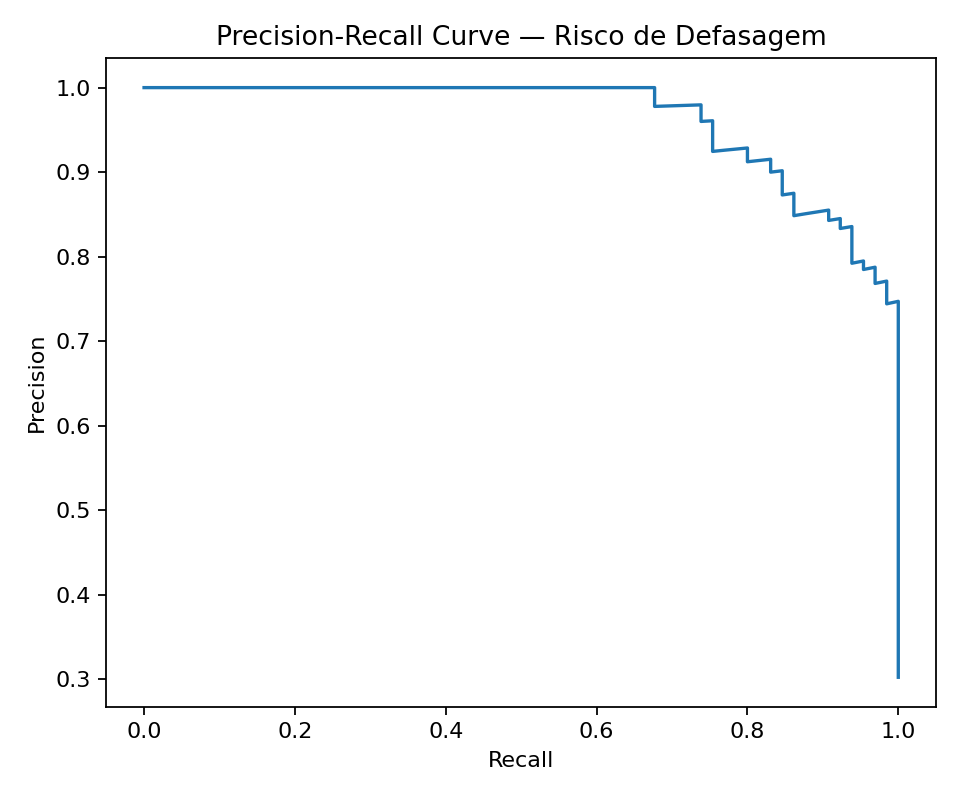
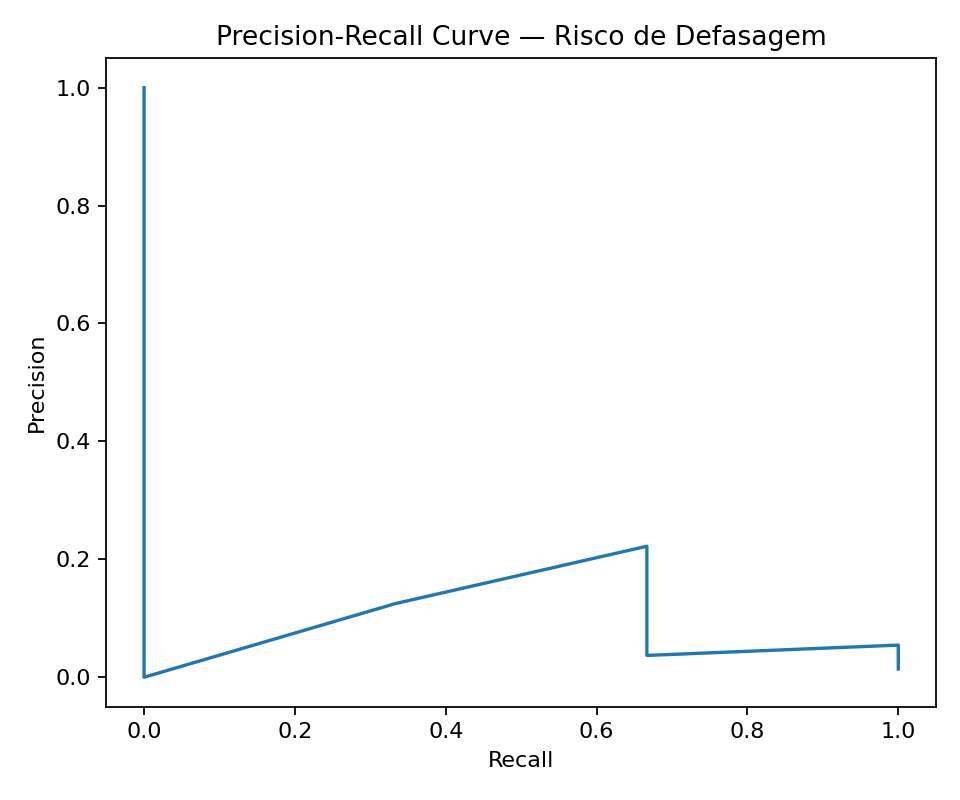
Update Q9 model: redefine risk as Defas > 0

diff --git a/scripts/q9_ml_risco_defasagem.py b/scripts/q9_ml_risco_defasagem.py
@@ -1,7 +1,10 @@
 """
-Pergunta 9 — ML: Previsão de risco de defasagem (AJUSTADO)
-- Corrige erro do permutation_importance em matriz esparsa usando importância por coeficientes
-- Gera outputs em reports/q9 e salva modelo/metadata em models/
+Pergunta 9 — ML: Previsão de risco de defasagem (AJUSTADO E ROBUSTO)
+
+
+Saídas:
+- reports/q9/*.png, *.csv, README_q9.md
+- models/q9_model.pkl e models/q9_metadata.json
 
 Rodar:
     source .venv/bin/activate
@@ -12,6 +15,7 @@ from __future__ import annotations
 
 from pathlib import Path
 import json
+
 import numpy as np
 import pandas as pd
 import matplotlib.pyplot as plt
@@ -70,14 +74,24 @@ def main() -> None:
         df[c] = pd.to_numeric(df[c], errors="coerce")
 
     # =========================================================
-    # 2) Definir alvo (RISCO) via Defas >= P75
+    # 2) Definir alvo (RISCO) — ROBUSTO
     # =========================================================
-    defas = df["Defas"].dropna()
-    if defas.shape[0] < 50:
+    defas_all = df["Defas"].dropna()
+    if defas_all.shape[0] < 50:
         raise ValueError("Poucos dados não-nulos em Defas para treinar modelo com segurança.")
 
-    thr = float(defas.quantile(0.75))
-    df["risco_defasagem"] = (df["Defas"] >= thr).astype(int)
+    defas_pos = df.loc[df["Defas"].notna() & (df["Defas"] > 0), "Defas"]
+
+    # Default (robusto): risco = Defas > 0
+    thr = 0.0
+    df["risco_defasagem"] = (df["Defas"] > 0).astype(int)
+    target_definition = "1 se Defas > 0 (qualquer defasagem)"
+
+    # Se houver casos suficientes, podemos refinar: risco alto = top quartil entre Defas>0
+    if defas_pos.shape[0] >= 50:
+        thr = float(defas_pos.quantile(0.75))
+        df["risco_defasagem"] = ((df["Defas"] > 0) & (df["Defas"] >= thr)).astype(int)
+        target_definition = "1 se Defas > 0 e Defas >= P75 calculado em Defas>0"
 
     # Evitar vazamento: remover Defas e IAN (se existir)
     leak_cols = [c for c in ["Defas", "IAN"] if c in df.columns]
@@ -91,6 +105,13 @@ def main() -> None:
 
     X = df_model[num_cols + cat_cols]
     y = df_model["risco_defasagem"]
+
+    # Segurança: precisa ter as duas classes
+    if y.nunique() < 2:
+        raise ValueError(
+            "O alvo risco_defasagem tem apenas uma classe (tudo 0 ou tudo 1). "
+            "Não é possível treinar um classificador."
+        )
 
     # =========================================================
     # 3) Split treino/teste
@@ -178,9 +199,7 @@ def main() -> None:
 
     # =========================================================
     # 7) Importância de features (coeficientes do Logistic)
-    #    - evita problema de matriz esparsa no permutation_importance
     # =========================================================
-    # nomes das features após one-hot
     ohe = pipe.named_steps["pre"].named_transformers_["cat"].named_steps["onehot"]
     cat_feature_names = list(ohe.get_feature_names_out(cat_cols))
     feature_names = num_cols + cat_feature_names
@@ -199,13 +218,14 @@ def main() -> None:
 
     metadata = {
         "target": "risco_defasagem",
-        "target_definition": "1 se Defas >= P75 (threshold calculado no dataset)",
-        "defas_threshold_p75": thr,
+        "target_definition": target_definition,
+        "threshold_reference": thr,
         "n_rows_total": int(len(df)),
         "n_rows_model": int(len(df_model)),
         "positive_rate_model": float(y.mean()),
         "features_numeric": num_cols,
         "features_categorical": cat_cols,
+        "removed_leakage_cols": leak_cols,
         "roc_auc": float(roc),
         "pr_auc": float(pr_auc),
     }
@@ -217,8 +237,8 @@ def main() -> None:
     md = f"""# Pergunta 9 — ML: Previsão de risco de defasagem
 
 ## Definição do alvo (risco)
-- Risco = **Defas >= P75**
-- Threshold (P75) = **{thr:.4f}**
+- {target_definition}
+- Referência/threshold usado = **{thr:.4f}**
 - Taxa de risco no dataset (model) = **{y.mean():.3f}**
 
 ## Features usadas (sem vazamento)
@@ -246,7 +266,7 @@ Arquivos gerados:
 
     print("✅ Q9 concluída! Outputs em:", OUT_DIR)
     print("   - Modelo salvo em: models/q9_model.pkl")
-    print("   - Importância (coeficientes) em: reports/q9/feature_importance_top30.csv")
+    print("   - Metadata em: models/q9_metadata.json")
 
 
 if __name__ == "__main__":

diff --git a/reports/q9/README_q9.md b/reports/q9/README_q9.md
@@ -1,9 +1,9 @@
 # Pergunta 9 — ML: Previsão de risco de defasagem
 
 ## Definição do alvo (risco)
-- Risco = **Defas >= P75**
-- Threshold (P75) = **0.0000**
-- Taxa de risco no dataset (model) = **0.301**
+- 1 se Defas > 0 (qualquer defasagem)
+- Referência/threshold usado = **0.0000**
+- Taxa de risco no dataset (model) = **0.014**
 
 ## Features usadas (sem vazamento)
 Numéricas: IDA, IEG, IAA, IPS, Ano ingresso, Idade 22
@@ -14,8 +14,8 @@ Removidas por vazamento: Defas, IAN
 - Logistic Regression (class_weight=balanced) com pipeline de preprocessamento
 
 ## Métricas (teste)
-- ROC AUC = **0.9827**
-- PR AUC = **0.9631**
+- ROC AUC = **0.8962**
+- PR AUC = **0.1339**
 
 Arquivos gerados:
 - `classification_report.txt`
